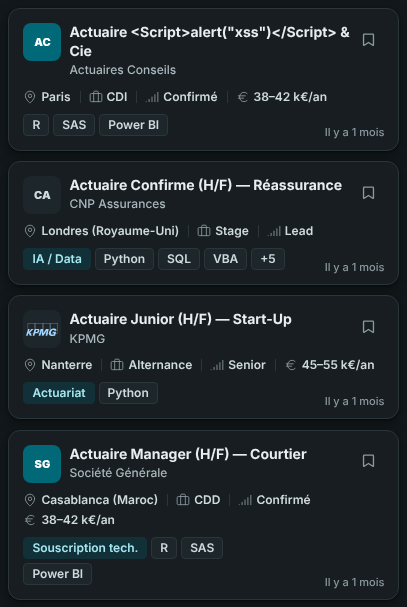
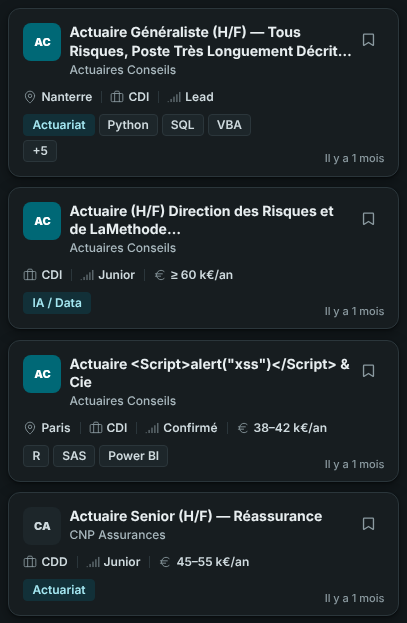
docs(T10): captures de la proposition, cartes à éléments manquants choisies par titre
Claude-Session: https://claude.ai/code/session_017SrhfB8s8t7m1GLLjon6xN

diff --git a/LISEZMOI.md b/LISEZMOI.md
@@ -8,5 +8,5 @@ Noms : `<surface>-<largeur>-<jour|nuit>.png` (board = job-board.html, accueil = 
 
 - `comparaison.png` : board 1440 px, jour, trois colonnes AVANT (actuel) / OPTION 1 (PR #125 précédente) / PROPOSITION DU PROPRIÉTAIRE.
 - `comparaison-elements-manquants.png` : même comparaison sur des cartes à éléments manquants (sans salaire, sans compétences, sans spécialité, sans lieu).
-- `<surface>-<largeur>-<jour|nuit>.png` : quatre premières cartes complètes ; `...-suite.png` : cartes suivantes, dont celles à éléments manquants.
+- `<surface>-<largeur>-<jour|nuit>.png` : cartes complètes ; `...-suite.png` : cartes à éléments manquants (sans lieu, sans salaire, sans spécialité, sans compétences).
 - `sources/` : les captures « avant » et « option 1 » utilisées pour la comparaison (mêmes offres de test).
